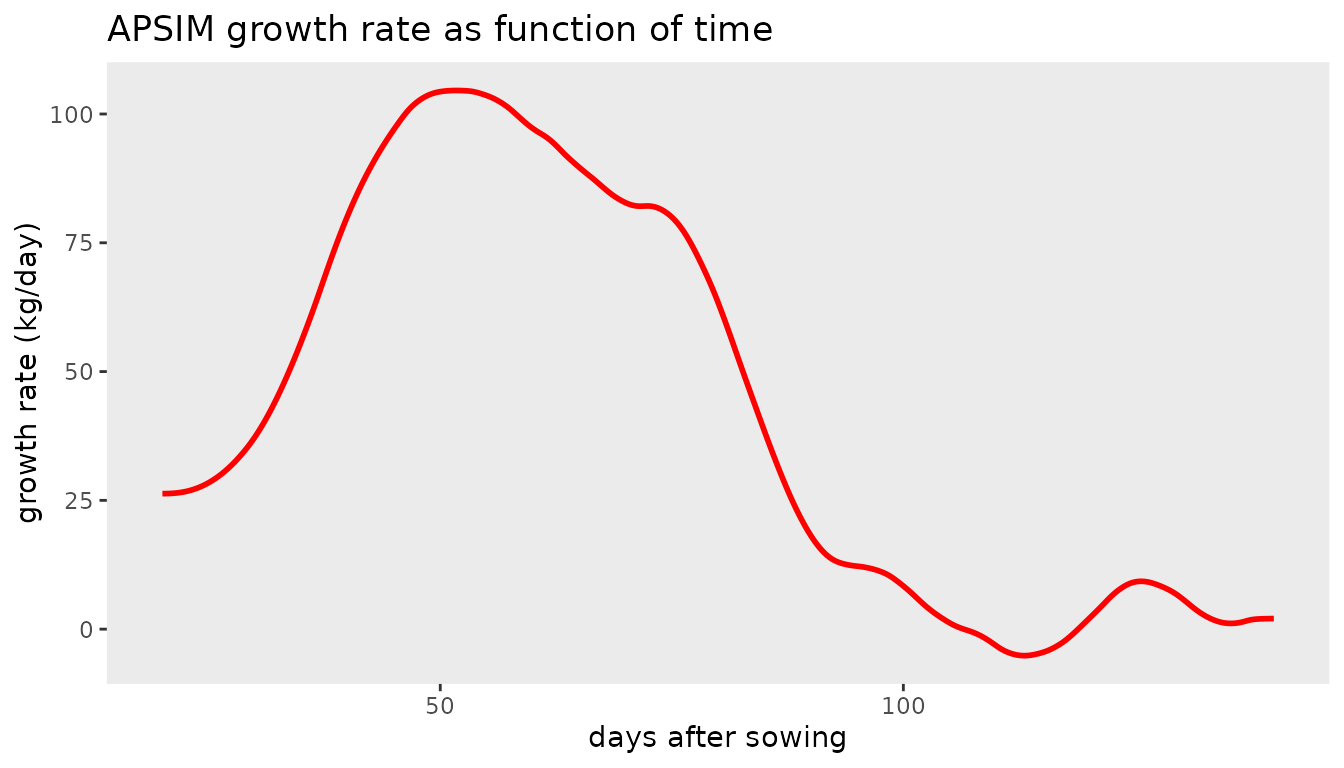
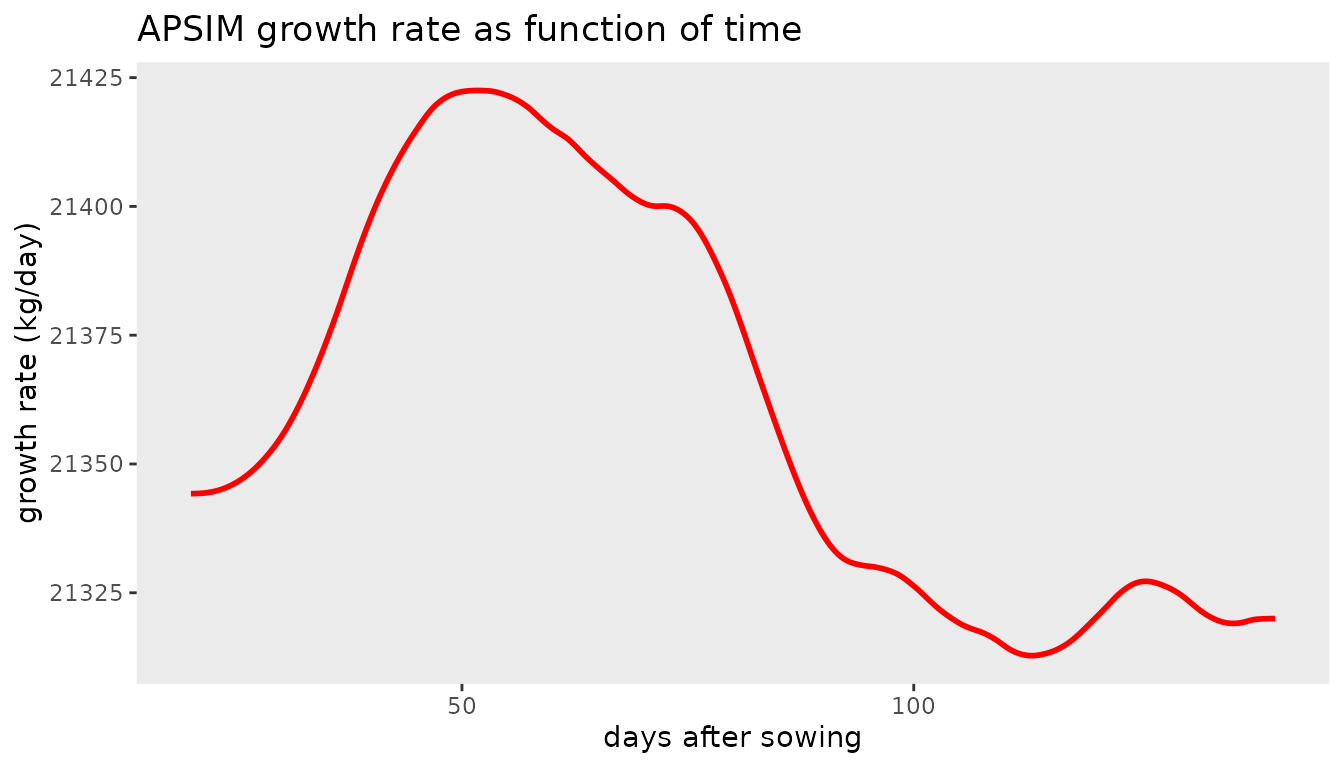
Built site for LMMsolver: 1.0.2@2ea3c19

diff --git a/news/index.html b/news/index.html
@@ -10,7 +10,7 @@
     
     <a class="navbar-brand me-2" href="../index.html">LMMsolver</a>
 
-    <small class="nav-text text-muted me-auto" data-bs-toggle="tooltip" data-bs-placement="bottom" title="">1.0.1</small>
+    <small class="nav-text text-muted me-auto" data-bs-toggle="tooltip" data-bs-placement="bottom" title="">1.0.2</small>
 
     
     <button class="navbar-toggler" type="button" data-bs-toggle="collapse" data-bs-target="#navbar" aria-controls="navbar" aria-expanded="false" aria-label="Toggle navigation">
@@ -78,7 +78,13 @@
     </div>
 
     <div class="section level2">
-<h2 class="pkg-version" data-toc-text="1.0.1" id="lmmsolver-101">LMMsolver 1.0.1<a class="anchor" aria-label="anchor" href="#lmmsolver-101"></a></h2>
+<h2 class="pkg-version" data-toc-text="1.0.2" id="lmmsolver-102">LMMsolver 1.0.2<a class="anchor" aria-label="anchor" href="#lmmsolver-102"></a></h2>
+<ul><li>First and second order derivatives are now calculated correctly.</li>
+<li>Several small bugs fixed.</li>
+<li>Updated tests to pass checks on macM1.</li>
+</ul></div>
+    <div class="section level2">
+<h2 class="pkg-version" data-toc-text="1.0.1" id="lmmsolver-101">LMMsolver 1.0.1<a class="anchor" aria-label="anchor" href="#lmmsolver-101"></a></h2><p class="text-muted">CRAN release: 2022-03-28</p>
 <ul><li>
 <code>weights</code> argument in LMMsolve function added</li>
 <li>Function <code>obtainSmoothTrend</code> returns in addition to the predictions the standard errors.</li>

diff --git a/authors.html b/authors.html
@@ -10,7 +10,7 @@
     
     <a class="navbar-brand me-2" href="index.html">LMMsolver</a>
 
-    <small class="nav-text text-muted me-auto" data-bs-toggle="tooltip" data-bs-placement="bottom" title="">1.0.1</small>
+    <small class="nav-text text-muted me-auto" data-bs-toggle="tooltip" data-bs-placement="bottom" title="">1.0.2</small>
 
     
     <button class="navbar-toggler" type="button" data-bs-toggle="collapse" data-bs-target="#navbar" aria-controls="navbar" aria-expanded="false" aria-label="Toggle navigation">
@@ -95,13 +95,13 @@
 
       <p>Boer M, van Rossum B (2022).
 <em>LMMsolver: Linear Mixed Model Solver</em>.
-R package version 1.0.1. 
+R package version 1.0.2. 
 </p>
       <pre>@Manual{,
   title = {LMMsolver: Linear Mixed Model Solver},
   author = {Martin Boer and Bart-Jan {van Rossum}},
   year = {2022},
-  note = {R package version 1.0.1},
+  note = {R package version 1.0.2},
 }</pre>
     </div>
   </main><aside class="col-md-3"><nav id="toc"><h2>On this page</h2>

diff --git a/articles/Solving_Linear_Mixed_Models.html b/articles/Solving_Linear_Mixed_Models.html
@@ -27,7 +27,7 @@
     
     <a class="navbar-brand me-2" href="../index.html">LMMsolver</a>
 
-    <small class="nav-text text-muted me-auto" data-bs-toggle="tooltip" data-bs-placement="bottom" title="">1.0.1</small>
+    <small class="nav-text text-muted me-auto" data-bs-toggle="tooltip" data-bs-placement="bottom" title="">1.0.2</small>
 
     
     <button class="navbar-toggler" type="button" data-bs-toggle="collapse" data-bs-target="#navbar" aria-controls="navbar" aria-expanded="false" aria-label="Toggle navigation">
@@ -100,7 +100,7 @@
   <main id="main"><div class="page-header">
       <img src="" class="logo" alt=""><h1>Solving Linear Mixed Models using LMMsolver</h1>
             
-            <h4 data-toc-skip class="date">2022-03-28</h4>
+            <h4 data-toc-skip class="date">2022-04-21</h4>
       
       
       <div class="d-none name"><code>Solving_Linear_Mixed_Models.Rmd</code></div>

diff --git a/reference/obtainSmoothTrend.html b/reference/obtainSmoothTrend.html
@@ -10,7 +10,7 @@
     
     <a class="navbar-brand me-2" href="../index.html">LMMsolver</a>
 
-    <small class="nav-text text-muted me-auto" data-bs-toggle="tooltip" data-bs-placement="bottom" title="">1.0.1</small>
+    <small class="nav-text text-muted me-auto" data-bs-toggle="tooltip" data-bs-placement="bottom" title="">1.0.2</small>
 
     
     <button class="navbar-toggler" type="button" data-bs-toggle="collapse" data-bs-target="#navbar" aria-controls="navbar" aria-expanded="false" aria-label="Toggle navigation">
@@ -111,7 +111,7 @@ fitting the spline model.</p></dd>
 implemented for spl1D.</p></dd>
 <dt>includeIntercept</dt>
 <dd><p>Should the value of the intercept be included in
-the computed smooth trend?</p></dd>
+the computed smooth trend? Ignored if deriv &gt; 0.</p></dd>
 <dt>which</dt>
 <dd><p>An integer, for if there are multiple splxD terms in the model.
 Default value is 1.</p></dd>

diff --git a/reference/ADchol.html b/reference/ADchol.html
@@ -14,7 +14,7 @@ with C = lambda[1]*P1 + lambda[2]*P2 + ....."><meta property="og:image" content=
     
     <a class="navbar-brand me-2" href="../index.html">LMMsolver</a>
 
-    <small class="nav-text text-muted me-auto" data-bs-toggle="tooltip" data-bs-placement="bottom" title="">1.0.1</small>
+    <small class="nav-text text-muted me-auto" data-bs-toggle="tooltip" data-bs-placement="bottom" title="">1.0.2</small>
 
     
     <button class="navbar-toggler" type="button" data-bs-toggle="collapse" data-bs-target="#navbar" aria-controls="navbar" aria-expanded="false" aria-label="Toggle navigation">

diff --git a/reference/DerivCholesky.html b/reference/DerivCholesky.html
@@ -14,7 +14,7 @@ a spam matrix, and is used to calculate standard errors and for predictions."><m
     
     <a class="navbar-brand me-2" href="../index.html">LMMsolver</a>
 
-    <small class="nav-text text-muted me-auto" data-bs-toggle="tooltip" data-bs-placement="bottom" title="">1.0.1</small>
+    <small class="nav-text text-muted me-auto" data-bs-toggle="tooltip" data-bs-placement="bottom" title="">1.0.2</small>
 
     
     <button class="navbar-toggler" type="button" data-bs-toggle="collapse" data-bs-target="#navbar" aria-controls="navbar" aria-expanded="false" aria-label="Toggle navigation">

diff --git a/reference/LMMsolveObject.html b/reference/LMMsolveObject.html
@@ -16,7 +16,7 @@ deviance."><meta property="og:image" content="/reference/figures/README-Plot_USp
     
     <a class="navbar-brand me-2" href="../index.html">LMMsolver</a>
 
-    <small class="nav-text text-muted me-auto" data-bs-toggle="tooltip" data-bs-placement="bottom" title="">1.0.1</small>
+    <small class="nav-text text-muted me-auto" data-bs-toggle="tooltip" data-bs-placement="bottom" title="">1.0.2</small>
 
     
     <button class="navbar-toggler" type="button" data-bs-toggle="collapse" data-bs-target="#navbar" aria-controls="navbar" aria-expanded="false" aria-label="Toggle navigation">

diff --git a/reference/checkFormVars.html b/reference/checkFormVars.html
@@ -12,7 +12,7 @@ are converted to a factor in the data.frame as well."><meta property="og:image" 
     
     <a class="navbar-brand me-2" href="../index.html">LMMsolver</a>
 
-    <small class="nav-text text-muted me-auto" data-bs-toggle="tooltip" data-bs-placement="bottom" title="">1.0.1</small>
+    <small class="nav-text text-muted me-auto" data-bs-toggle="tooltip" data-bs-placement="bottom" title="">1.0.2</small>
 
     
     <button class="navbar-toggler" type="button" data-bs-toggle="collapse" data-bs-target="#navbar" aria-controls="navbar" aria-expanded="false" aria-label="Toggle navigation">

diff --git a/reference/checkGroup.html b/reference/checkGroup.html
@@ -12,7 +12,7 @@ of the model and vice versa."><meta property="og:image" content="/reference/figu
     
     <a class="navbar-brand me-2" href="../index.html">LMMsolver</a>
 
-    <small class="nav-text text-muted me-auto" data-bs-toggle="tooltip" data-bs-placement="bottom" title="">1.0.1</small>
+    <small class="nav-text text-muted me-auto" data-bs-toggle="tooltip" data-bs-placement="bottom" title="">1.0.2</small>
 
     
     <button class="navbar-toggler" type="button" data-bs-toggle="collapse" data-bs-target="#navbar" aria-controls="navbar" aria-expanded="false" aria-label="Toggle navigation">

diff --git a/reference/diagnosticsMME.html b/reference/diagnosticsMME.html
@@ -14,7 +14,7 @@ decomposition"><meta property="og:image" content="/reference/figures/README-Plot
     
     <a class="navbar-brand me-2" href="../index.html">LMMsolver</a>
 
-    <small class="nav-text text-muted me-auto" data-bs-toggle="tooltip" data-bs-placement="bottom" title="">1.0.1</small>
+    <small class="nav-text text-muted me-auto" data-bs-toggle="tooltip" data-bs-placement="bottom" title="">1.0.2</small>
 
     
     <button class="navbar-toggler" type="button" data-bs-toggle="collapse" data-bs-target="#navbar" aria-controls="navbar" aria-expanded="false" aria-label="Toggle navigation">

diff --git a/reference/logLik.LMMsolve.html b/reference/logLik.LMMsolve.html
@@ -12,7 +12,7 @@ LMMsolve."><meta property="og:image" content="/reference/figures/README-Plot_USp
     
     <a class="navbar-brand me-2" href="../index.html">LMMsolver</a>
 
-    <small class="nav-text text-muted me-auto" data-bs-toggle="tooltip" data-bs-placement="bottom" title="">1.0.1</small>
+    <small class="nav-text text-muted me-auto" data-bs-toggle="tooltip" data-bs-placement="bottom" title="">1.0.2</small>
 
     
     <button class="navbar-toggler" type="button" data-bs-toggle="collapse" data-bs-target="#navbar" aria-controls="navbar" aria-expanded="false" aria-label="Toggle navigation">

diff --git a/reference/summary.LMMsolve.html b/reference/summary.LMMsolve.html
@@ -14,7 +14,7 @@ dimensions (which = "dimensions") or a table of variances (which =
     
     <a class="navbar-brand me-2" href="../index.html">LMMsolver</a>
 
-    <small class="nav-text text-muted me-auto" data-bs-toggle="tooltip" data-bs-placement="bottom" title="">1.0.1</small>
+    <small class="nav-text text-muted me-auto" data-bs-toggle="tooltip" data-bs-placement="bottom" title="">1.0.2</small>
 
     
     <button class="navbar-toggler" type="button" data-bs-toggle="collapse" data-bs-target="#navbar" aria-controls="navbar" aria-expanded="false" aria-label="Toggle navigation">
